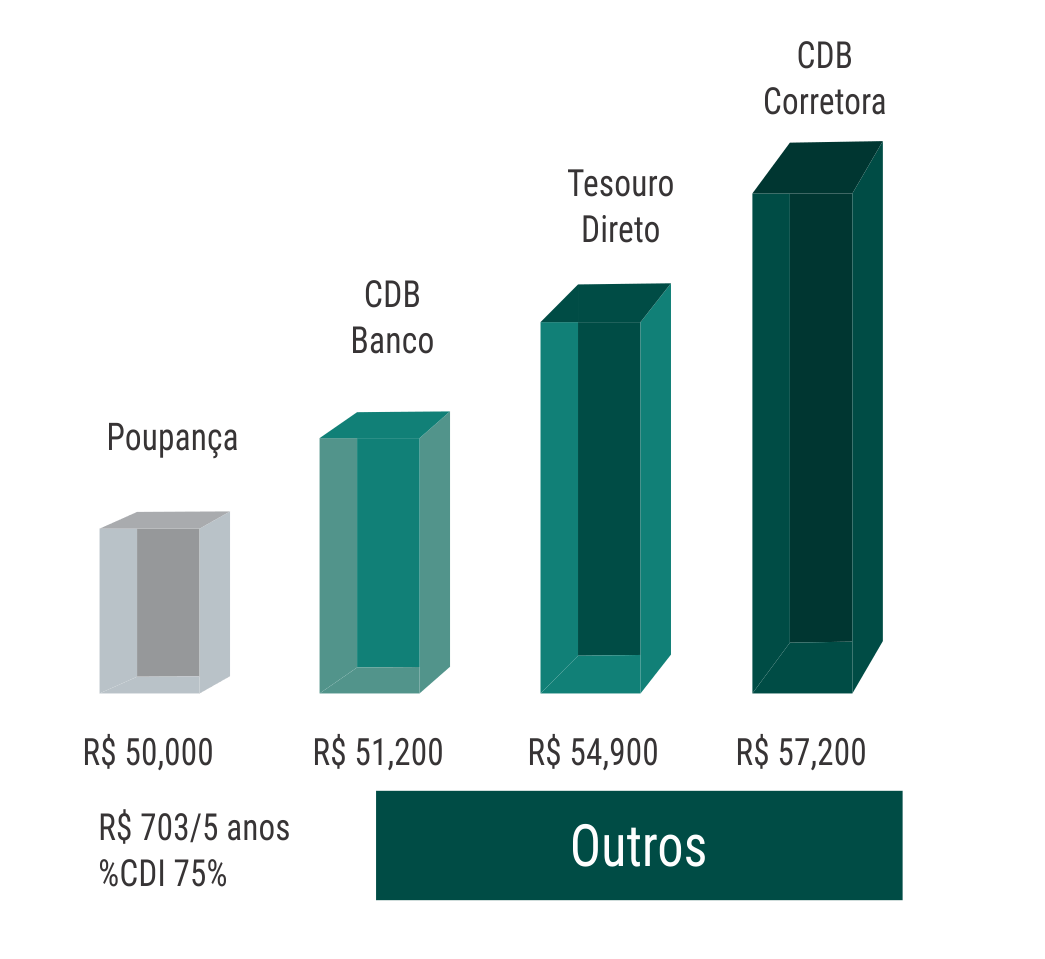
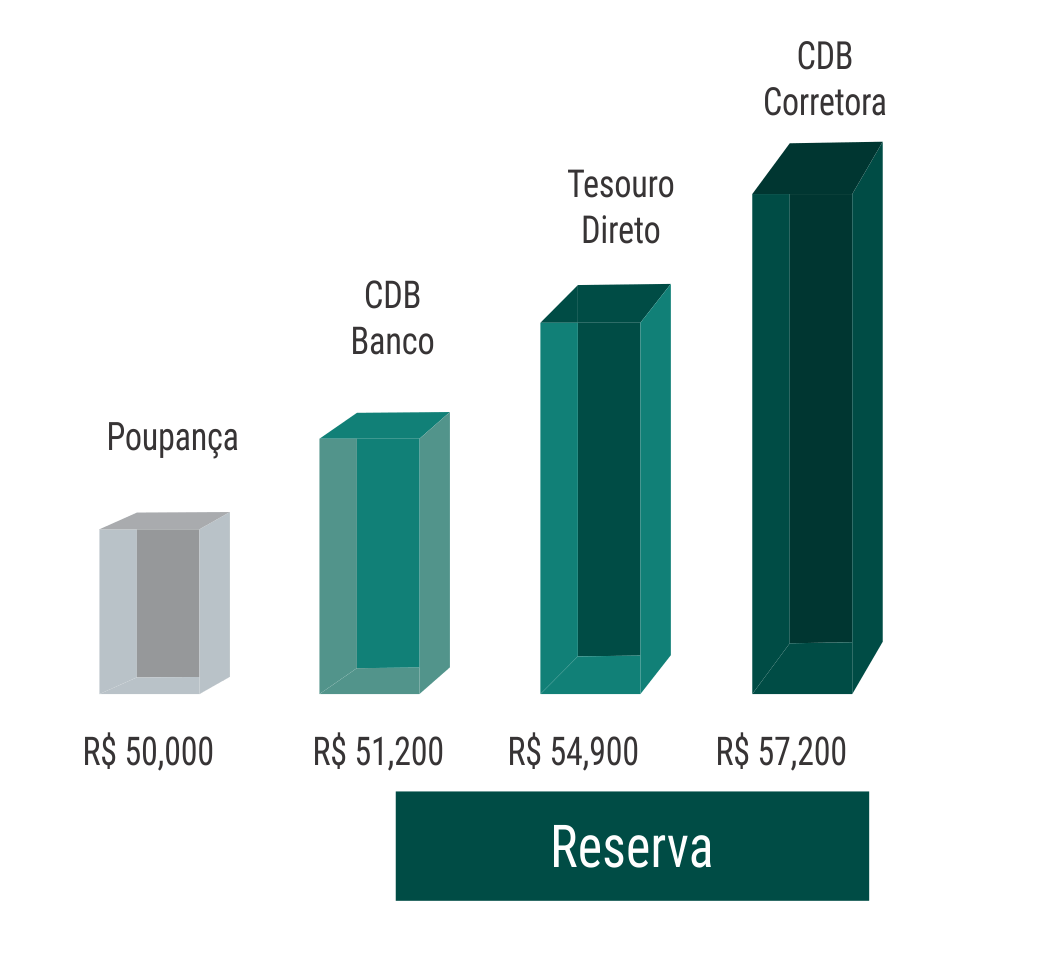
Alterações solicitadas no documento de mudança.

diff --git a/src/intro/fechamento.html b/src/intro/fechamento.html
@@ -1,15 +1,24 @@
 <template>
     <div class="jumbotron login">
         <form>
-            <h4 class="title col-md-10 col-md-offset-1">
-                O seu feedback para nós é muito importante para construirmos o melhor produto possível para te ajudar a conquistar seu sonho. Que tal falar um pouquinho sobre qual foi a sua experiência na nossa plataforma até agora? Lembrando que qualquer sugestão, crítica ou opinião é bem-vinda.
-            </h4>            
+            <h4 class="title col-md-12">
+                Deixe seus dados abaixo para que a nossa equipe possa entrar em contato para que possamos te ajudar.
+            </h4>
+            <h4 class="title col-md-12">
+                Estamos em uma versão beta, o seu feedback é muito importante para podermos te entregar a melhor 
+                experiência possível.
+            </h4>
+            <h4 class="title col-md-12">
+                Você poderia deixar seu feedback abaixo?
+            </h4>                
             <div class="form-group">
                 <input value.bind="nome" type="text" class="form-control input-lg" placeholder="Seu nome">
                 <br>
                 <input value.bind="email" type="text" class="form-control input-lg" placeholder="Seu e-mail">
                 <br>
-                <textarea value.bind="feedback" class="form-control" rows="3" placeholder="Mensagem"></textarea>
+                <textarea value.bind="feedback" class="form-control" rows="5" 
+                class="form-control input-lg" placeholder="Mensagem">
+                </textarea>
             </div>
             <br>
             <br>

diff --git a/src/info/info_5v1.html b/src/info/info_5v1.html
@@ -1,15 +1,17 @@
 <template>
     <div class="jumbotron login">
         <h4 class="title resultado-help">
-            Vamos fazer uma breve <span class="destaque">comparativo</span> entre os tipos de investimentos e quanto você ganharia com eles para realizar o seu sonho
-            que é ${objetivo}.
+            Vamos fazer uma breve <span class="destaque">comparativo</span> entre os tipos de investimentos 
+            e quanto você ganharia com eles para realizar o seu sonho que é ${objetivo}.
         </h4>
         <br>
         <h4 class="title resultado-help">
-            Vamos supor que o carro que você quer comprar custa R$ 35 mil e que você pretende comprá-lo em 36 meses. Se no mesmo período
-            você estivesse investido em um bom CDB da corretora, por exemplo, você teria R$ a mais. Isso significa que, com
-            essa diferença você poderia gastar com gasolina para rodar X meses, apenas investindo o seu dinheiro de forma
-            mais inteligente.
+            Vamos supor que o carro que você quer comprar custa, aproximadamente, 
+            R$ 35 mil e que você pretende comprá-lo em 36 meses. Se no mesmo período 
+            você estivesse investido em um bom CDB da corretora, por exemplo, você teria 
+            cerca de R$ 3 mil a mais. Isso significa que, com essa diferença você poderia, 
+            além de comprar o carro, contratar o seguro, investindo a mesma quantia, porém de 
+            forma mais inteligente.
         </h4>
         <br>
         <img class="resultado-image-gra" src="./resources/images/gra-carro.png">

diff --git a/src/info/info_5v5.html b/src/info/info_5v5.html
@@ -1,15 +1,17 @@
 <template>
     <div class="jumbotron login">
         <h4 class="title resultado-help">
-            Vamos fazer uma breve <span class="destaque">comparativo</span> entre os tipos de investimentos e quanto você ganharia com eles para realizar o seu sonho
+            Vamos fazer uma breve <span class="destaque">comparativo</span> entre os tipos 
+            de investimentos e quanto você ganharia com eles para realizar o seu sonho
             que é ${objetivo}.
         </h4>
         <br>
         <h4 class="title resultado-help">
-            Está querendo criar uma reserva financeira, correto? Pois bem, vamos supor que sua reserva será de R$ 50 mil e você pretende
-            juntar esse dinheiro em 5 anos. Se no mesmo período você tivesse investido em um bom CDB da corretora, por exemplo,
-            você teria R$ 7,2 mil a mais. Isso significa que, com essa diferença você poderia fazer muito mais coisa do que
-            antes, apenas investindo seu dinheiro de forma mais inteligente.
+            Vamos supor que sua reserva será de R$ 50 mil e você pretende juntar esse 
+            dinheiro em 5 anos. Se no mesmo período você tivesse investido em um bom CDB 
+            da corretora, por exemplo, você teria cerca de R$ 7 mil a mais. Isso significa que, 
+            com essa diferença você poderia fazer muito mais coisas do que antes, apenas investindo 
+            seu dinheiro de forma mais inteligente
         </h4>
         <br>
         <img class="resultado-image-gra" src="./resources/images/gra-outros.png">

diff --git a/src/info/info_5v4.html b/src/info/info_5v4.html
@@ -1,15 +1,16 @@
 <template>
     <div class="jumbotron login">
         <h4 class="title resultado-help">
-            Vamos fazer uma breve <span class="destaque">comparativo</span> entre os tipos de investimentos e quanto você ganharia com eles para realizar o seu sonho
-            que é ${objetivo}.
+            Vamos fazer uma breve <span class="destaque">comparativo</span> entre os tipos de investimentos 
+            e quanto você ganharia com eles para realizar o seu sonho que é ${objetivo}.
         </h4>
         <br>
         <h4 class="title resultado-help">
             Vamos supor que a sua viagem custa R$ 15 mil e você pretende juntar esse dinheiro em 18 meses. 
-            Se no mesmo período você tivesse investido em um bom CDB da corretora, por exemplo, você teria 
-            R$ 700 a mais. Isso significa que, com essa diferença você poderia ficar em um hotel 4 estrelas 
-            ao invés de um hotel 3 estrelas, por exemplo, apenas investindo seu dinheiro de forma mais inteligente.
+            Se no mesmo período você tivesse investido em um bom <span class="destaque">CDB</span> da corretora, 
+            por exemplo, você teria R$ 700 a mais. Isso significa que, com essa diferença você poderia 
+            ficar em um hotel 4 estrelas  ao invés de um hotel 3 estrelas, por exemplo, apenas investindo seu 
+            dinheiro de forma mais inteligente.
         </h4>    
         <br>                
         <img class="resultado-image-gra" src="./resources/images/gra-viagem.png">                

diff --git a/index.html b/index.html
@@ -24,7 +24,10 @@
     <meta property="og:url" content="http://www.investplay.com.br">
     <meta property="og:image" content="resources/images/logo.png">
     <meta property="og:description" content="InvestPlay é uma ferramenta gratuita de aprendizagem que ensina os usuários a como investir melhor o dinheiro, de uma maneira ainda não abordada, feito através de gamification.">
-    <meta property="og:site_name" content="invetplay.com.br">    
+    <meta property="og:site_name" content="invetplay.com.br">
+    <meta name="theme-color" content="#75b529">
+    <meta name="apple-mobile-web-app-status-bar-style" content="#75b529">
+    <meta name="msapllication-navbutton-color" content=#75b529>    
     <!--The FontAwesome version is locked at 4.6.3 in the package.json file to keep this from breaking.-->
     <link rel="stylesheet" href="jspm_packages/npm/font-awesome@4.6.3/css/font-awesome.min.css">
     <link href="https://fonts.googleapis.com/css?family=Roboto+Condensed" rel="stylesheet">

diff --git a/src/info/info_5v2.html b/src/info/info_5v2.html
@@ -1,8 +1,8 @@
 <template>
     <div class="jumbotron login">
         <h4 class="title resultado-help">
-            Vamos fazer uma breve <span class="destaque">comparativo</span> entre os tipos de investimentos e quanto você ganharia com eles para realizar o seu sonho
-            que é ${objetivo}.
+            Vamos fazer uma breve <span class="destaque">comparativo</span> entre os tipos de investimentos 
+            e quanto você ganharia com eles para realizar o seu sonho que é ${objetivo}.
         </h4>
         <br>
         <h4 class="title resultado-help">

diff --git a/src/info/info_5v3.html b/src/info/info_5v3.html
@@ -1,8 +1,8 @@
 <template>
     <div class="jumbotron login">
         <h4 class="title resultado-help">
-            Vamos fazer uma breve <span class="destaque">comparativo</span> entre os tipos de investimentos e quanto você ganharia com eles para realizar o seu sonho
-            que é ${objetivo}.
+            Vamos fazer uma breve <span class="destaque">comparativo</span> entre os tipos de investimentos 
+            e quanto você ganharia com eles para realizar o seu sonho que é ${objetivo}.
         </h4>
         <br>
         <h4 class="title resultado-help">

diff --git a/src/intro/final.html b/src/intro/final.html
@@ -5,7 +5,7 @@
         <h4 class="title resultado-help">O que você quer fazer agora?</h4>
         <br>        
         <div class="row container">
-            <button click.delegate="continuarInvestir()" class="btn btn-lg btn-success">Quero sair da poupança</button>
+            <button click.delegate="continuarInvestir()" class="btn btn-lg btn-success">Quero investir</button>
             <br>
             <br>
             <button click.delegate="continuarVerMais()" class="btn btn-lg btn-success" href="#">Quero aprender mais</button>

diff --git a/src/info/info_4.html b/src/info/info_4.html
@@ -1,7 +1,8 @@
 <template>
     <div class="jumbotron login">
         <h4 class="title resultado-help">
-            As <a class="destaque" href="#" target="_blank">corretoras de valores</a> são as instituições autorizadas a aplicar de forma legal seus investimentos.
+            As <span class="destaque">corretoras de valores</span> são as instituições autorizadas 
+            a aplicar de forma legal seus investimentos.
         </h4>
         <br>
         <h4 class="title resultado-help">

diff --git a/src/app.html b/src/app.html
@@ -34,7 +34,8 @@
   <div class="container">
     <div class="row home">
       <div class="col-md-6 col-md-offset-1">
-        <router-view></router-view>
+        <!--<router-view></router-view-->
+        <compose view-model="./intro/fechamento.js"></compose>
       </div>
       <div class="col-md-4">
         <compose view-model="./intro/perfil.js" view-model.ref="perfilVM"></compose>

diff --git a/styles/styles.css b/styles/styles.css
@@ -7,14 +7,14 @@ body {
 
 
 .login .title {
-  margin-bottom: 50px;
+  margin-bottom: 25px;
   text-align: center;
   color: #455A64;
   font-family: 'Roboto Condensed', sans-serif;  
 }
 
 .item .title {
-  margin-bottom: 10px;
+  margin-bottom: 10px;  
   text-align: center;
   font-family: 'Roboto Condensed', sans-serif;  
 }

diff --git a/src/intro/fechamento_1.js b/src/intro/fechamento_1.js
@@ -5,7 +5,7 @@ import { UserInfo } from '../services/UserInfo';
 import 'fetch';
 
 @inject(HttpClient, Router, UserInfo)
-export class Fechamento {    
+export class Fechamento_1 {    
     
     constructor(http, router, userInfo) {
         this.http = http;
